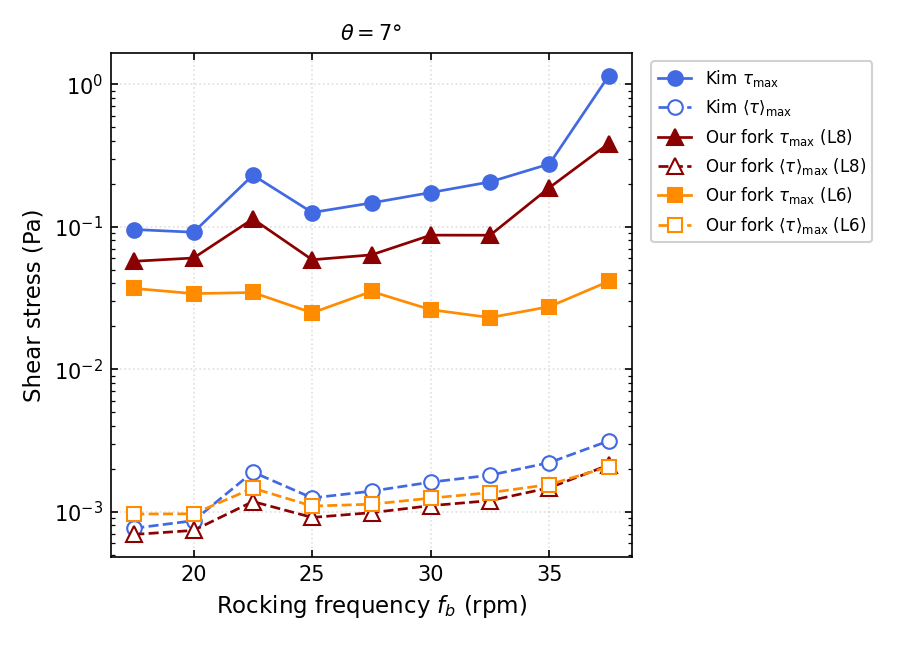
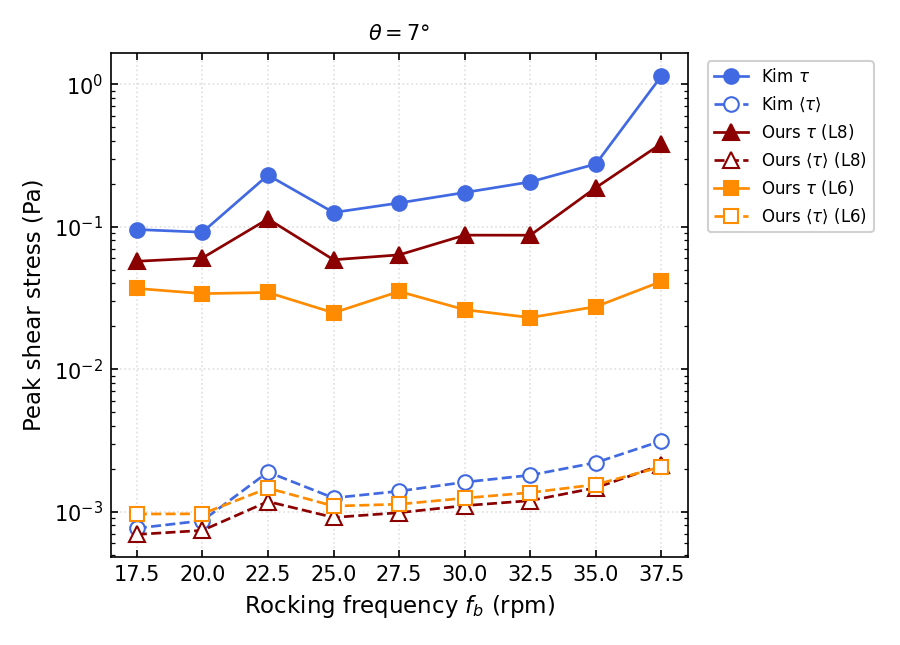
style(fig13a): drop redundant \"max\" from every legend entry
Every series in this plot is a max-over-QSS-window quantity, so
appending "max" to all six legend labels distinguished nothing --
stated once in the y-axis label ("Peak shear stress") instead, legend
now just shows what actually varies: tau vs <tau>, data source, resolution.

Claude-Session: https://claude.ai/code/session_01YAKLKMs5oUYu8r6RenvudK

diff --git a/scripts/plot_fig13a_current.py b/scripts/plot_fig13a_current.py
@@ -55,22 +55,22 @@ l6 = _load("fig13a_l6_rpm{rpm:g}")
 fig, ax = plt.subplots(figsize=(6, 4.3))
 
 ax.plot(kim["RPM"], kim["tau_liq_max"], color="royalblue", marker="o", ms=7, lw=1.3,
-        label=r"Kim $\tau_\mathrm{max}$")
+        label=r"Kim $\tau$")
 ax.plot(kim["RPM"], kim["tau_liq_mean"], color="royalblue", marker="o", ms=7, lw=1.3, ls="--",
-        markerfacecolor="white", label=r"Kim $\langle\tau\rangle_\mathrm{max}$")
+        markerfacecolor="white", label=r"Kim $\langle\tau\rangle$")
 
 ax.plot(l8["rpm"], l8["tau_max"], color="darkred", marker="^", ms=8, lw=1.3,
-        label=r"Our fork $\tau_\mathrm{max}$ (L8)")
+        label=r"Ours $\tau$ (L8)")
 ax.plot(l8["rpm"], l8["tau_mean_max"], color="darkred", marker="^", ms=8, lw=1.3, ls="--",
-        markerfacecolor="white", label=r"Our fork $\langle\tau\rangle_\mathrm{max}$ (L8)")
+        markerfacecolor="white", label=r"Ours $\langle\tau\rangle$ (L8)")
 
 ax.plot(l6["rpm"], l6["tau_max"], color="darkorange", marker="s", ms=7, lw=1.3,
-        label=r"Our fork $\tau_\mathrm{max}$ (L6)")
+        label=r"Ours $\tau$ (L6)")
 ax.plot(l6["rpm"], l6["tau_mean_max"], color="darkorange", marker="s", ms=7, lw=1.3, ls="--",
-        markerfacecolor="white", label=r"Our fork $\langle\tau\rangle_\mathrm{max}$ (L6)")
+        markerfacecolor="white", label=r"Ours $\langle\tau\rangle$ (L6)")
 
 ax.set_xlabel(r"Rocking frequency $f_b$ (rpm)", fontsize=11)
-ax.set_ylabel("Shear stress (Pa)", fontsize=11)
+ax.set_ylabel("Peak shear stress (Pa)", fontsize=11)
 ax.set_yscale("log")
 ax.set_title(r"$\theta=7°$", fontsize=10)
 ax.tick_params(which="both", direction="in", top=True, right=True)
